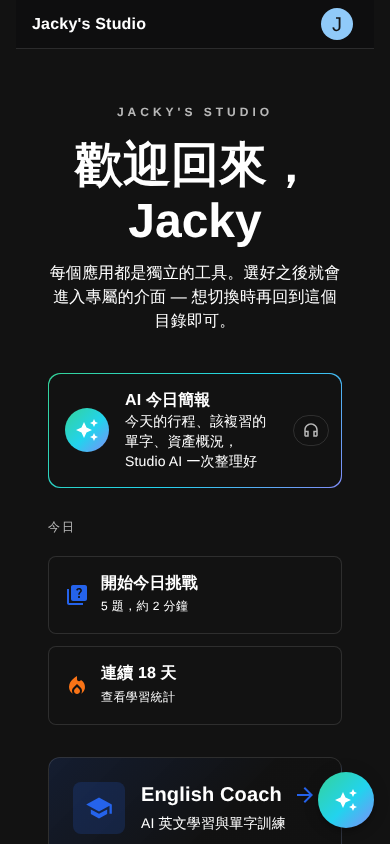
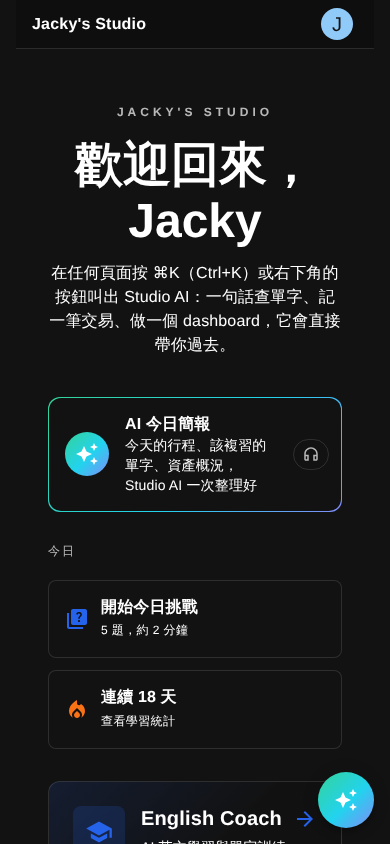
docs(ai-native): 第 56 輪紀錄、NEXT、SHOWCASE 日誌、首頁截圖更新；loop: release lock [skip ci]
Claude-Session: https://claude.ai/code/session_01DgXGTwFbkuAXhsFxCDfvGD

diff --git a/docs/ai-native/NEXT.md b/docs/ai-native/NEXT.md
@@ -12,6 +12,7 @@
 
 ## 1. CI 狀態
 
+- 第 56 輪：只動前端（D-209）；CI 40961309416（af66cbd3）第一次就綠。截圖巡檢時 `selection.cjs` 的 `studio-handoff-*-phone` 在送出後 700 ms 拍，抽屜可能正在收起：差異大不代表退化。
 - 第 55 輪：後端＋前端（D-207、D-208）；cscheck 0 個新診斷；CI 40944862751（d8bc6314）第一次就綠，40947180302（4408c6a8，前端審查修正＋截圖）第一次就綠。新的錯誤碼要同時加在 `Common/ErrorCodes.cs` 與 `apis/types.ts` 的 `ErrorCodes`（以名稱序列化）。
 - 第 54 輪：後端（D-203）＋前端（D-204、D-206）；cscheck 0 個新診斷；CI 40926326281（3b5c0546）、40927424179（6c0e659f）都第一次就綠。**官方 MCP Apps 範例 server 可以在 sandbox 用 npm 裝來跑**（`.loop/shots/mcp-host-official.cjs` 開頭有步驟；curl 要 `--noproxy localhost`）。在下載目錄裡跑 `python3 -c` 會被權限分類器擋（Code from External），讀那些檔案用 Grep／Read。
 - 第 53 輪：後端＋前端（D-200～D-202）；CI 40908396536（5ac216d）、40911186070（cb29805）第一次就綠，審查修正 4ac017d 見 PROGRESS。cscheck 對 `x == null || x.Prop` 這種寫法（`x` 是 record）報 CS8602、對 `is not { } x || …` 報 CS0165：**先 `if (x is null) return …;` 再用**就乾淨。cscheck 現在有 MCP SDK 原始碼（`ReadResourceAsync(ReadResourceRequestParams, ct)` 報 CS1503 是跟 `ListToolsAsync` 一樣的雜訊，CI 過）。截圖腳本新增 `.loop/shots/mcp-host.cjs`（假的天氣 app：init → tool-result → size-changed、`open-link` 要讀者按、`tools/call` 經 `app-call`、偷連外部被 CSP 擋下，印出結果）。
@@ -54,7 +55,8 @@
 
 ## 2. 下一步（依序）
 
-0000. **第 55 輪（D-207、D-208）**：只給 app 的寫入工具讀者在卡片上允許後才跑。剩下（低）：app 在畫面外仍輪詢（讀者可停止允許；要做就用 IntersectionObserver 在畫面外時回「暫停」錯誤）；「停止允許」後這張卡片不能再允許；問題顯示 app 給的名稱不是伺服器的標題。**這個環境不能執行 npm 下載的套件**（權限分類器擋 Code from External，第 54 輪可以、第 55 輪不行）：官方範例只能讀原始碼，或用 `.loop/shots/` 自製的假 app。**下一輪建議**：2 的截圖巡檢（`chat.cjs` 重拍比對）或 1 的選做；11/3 凍結前最後一輪重拍全部截圖。
+0000. **第 56 輪（D-209）**：MCP App 卡片畫面外暫停已允許的工具、拒絕後可「改為允許」；截圖巡檢（chat.cjs 等 7 支）無退化。MCP Apps 剩下（低，可不做）：問題顯示 app 給的名稱不是伺服器的標題（D-208）；換亮暗是整個重畫（沒送 `host-context-changed`）。**這個環境不能執行 npm 下載的套件**（第 55 輪起權限分類器擋）：官方範例只能讀原始碼，或用 `.loop/shots/` 自製的假 app。**下一輪建議**：1 的選做挑一個，或 3 的 SHOWCASE 定稿先做（demo 腳本走一遍、統計：第 56 輪時 `rev-list --count --no-merges origin/master..HEAD` 約 470）；11/3 凍結前最後一輪重拍全部截圖（截圖比對的 python 片段見 PROGRESS 第 56 輪的作法：PIL `ImageChops.difference`、門檻 24、>1% 才看）。
+00000. **第 55 輪（D-207、D-208）**：只給 app 的寫入工具讀者在卡片上允許後才跑。剩下的兩項第 56 輪已做（D-209）。**這個環境不能執行 npm 下載的套件**（權限分類器擋 Code from External，第 54 輪可以、第 55 輪不行）：官方範例只能讀原始碼，或用 `.loop/shots/` 自製的假 app。
 000. **MCP Apps 已收尾（第 54 輪：D-203 宣告能力、D-204 `ui/message`、D-205 demo 來源、D-206 審查）**。剩下（低，可不做）：(a) `host-context-changed`／`resource-teardown` 沒送（換亮暗是整個重畫）；(b) app 在讀者決定前就收到 `ui/message` 成功；(c) 官方其他範例（`server-map` 已裝過、要外部 tile CDN；`server-budget-allocator`、`server-system-monitor`）可用同一支 `mcp-host-official.cjs` 換 uri／tool 試，確認 CSP 宣告的 `resourceDomains` 實際能載入；(d) mcpplaygroundonline 的 server 合併後實測（FOR_JACKY 19）。**下一輪先做 1 的選做或 2 的截圖巡檢**；凍結前（11/3）最後一輪重拍全部截圖。
 00. **第 52 輪留下的（低，可不做）**：D-197 只在讀者「跟著最後」或剛從搜尋打開時跟著長高；讀者捲到中間時上方內容長高仍會推動畫面（瀏覽器的 scroll anchoring 通常會處理，未證實有問題）。D-195 未修：Anyone dashboard 每個 dashboard 的匿名上限或 widget 結果快取 30–60 秒；`GET listening` 作答前就送 `IsCorrect`／`Explanation`（master 既有設計）。之後回到下面的 0／0.5／1，或 2
 0. **巡檢的未修項目**：第 47 輪做了第七次巡檢（登入登出、帳號連線、匿名端點；D-175），修了 TTS 的上限（D-173）、帳號連線 refresh 的競爭與 callback 的 provider（D-174），並把全站 `console.error` 收完（麥克風、對話開始、語音播放、登出，D-172；剩下的都有自己的錯誤畫面）；字典的發音被擋時改用瀏覽器的聲音（D-176）。**還剩（交給 Jacky，FOR_JACKY 18）**：匿名查字典可無限產生新字（產品決定，D-175(a)）；`StateService` 與 token MAC 共用 key、帳號連線沒 PKCE（低）。**還沒巡過的面**：第 51 輪巡過 dashboard 分享與 /admin/listening（D-195）；幾乎都巡過了。第 46 輪留下的：Job Finder 的頻率限制以位址計（同一個 NAT 後的人共用，低）。以下是之前的紀錄：第 44 輪做了第五次巡檢（D-163、D-164），新的未修（低，凍結前不做）：DNS rebinding 與 TDS routing 仍能讓自訂 SQL 資料源連到內網（只剩時間差旁路，因為連線失敗原因已不回報；要完全擋得靠 App Service 的出站網路限制，FOR_JACKY 17）；dashboard 分享仍看得出哪些 email 有帳號（要改成邀請制＝新表）；`MaskMsSql` 遇到含 `;` 的引號密碼會露出後半（只給擁有者看，可改用 `SqlConnectionStringBuilder` 遮罩）。**還沒巡過的面**：Job Finder（104／Cake 的外部內容進頁面）、Portfolio 的匯入／AI 摘要、English 的 AI 評分端點（prompt injection 只影響自己）。第 43 輪：第 43 輪修完了 D-158 的兩個中風險（錄音 4 MB＋2 分鐘、匿名上傳每人 128 MB；D-159）與 D-157 的三個低風險（連結卡片寫主機 D-160、Portfolio tooltip 跳脫 D-161、OAuth 提示只寫自己的名稱 D-162）。**還剩、凍結前不做的低風險**：PDF 頁數由 `/Count` 決定（Anthropic 每次最多 100 頁，未驗證）；附件文字不 taint 對話（D-083 的決定）；`ask_data` 依結果動態 taint（要動 `ClientToolRunner`）；匿名上傳的 IPv6 換位址可多拿份額（有總額與共用頻率限制兜底）；錄音 body 太大時回的是 ASP.NET 的 ProblemDetails 而不是 app 的錯誤格式（前端不讀 body，只顯示「語音沒有轉成文字」）。D-131（之後新增的讀取工具自動給已發出的 token）仍是合併後的事。新的 ECharts 函式 formatter 一定要 `escapeHtml`。若還有時間想再巡：可以看「Studio AI 的工具在本站 MCP server 上的權限」以外還沒看過的面（例如 dashboard 的公開分享、`/admin/listening`），但 11/3 之後只修 bug。
@@ -83,7 +85,7 @@
    - 「在 Studio AI 試試看」（D-126／D-128）：OAuth 授權回來的 snackbar 沒有按鈕（刻意，詳情裡有）。若要在 Studio 的 `find_mcp_server` 卡片上也直接試，要等使用者加完——目前不做。Studio「/」已有「找 MCP server」（key `find_mcp_server`，不是本站 MCP prompt）。
    - MCP 官方目錄（D-122／D-123）：只列 Streamable HTTP、固定網址的 remote server；SSE-only 與網址有 `{變數}` 的不列。安裝一定要使用者自己在 /connectors 按（D-124 仍守住）。Registry 的圖示刻意不顯示。
    - `approvalTimeLeft` 時間到後按鈕仍可按（D-109 決定不停用）；若實測覺得混淆再改。
-2. **全站截圖巡檢**：第 43 輪 `chat.cjs` 又拍一次、與 repo 比對無 >1% 差異（`finance-collapsed-*` 兩張 repo 裡沒有，沒加）。第 40 輪 `chat.cjs` 又拍一次、無退化（只有持倉卡片多一顆圖示）。第 37 輪 `chat.cjs`、第 38 輪 `selection.cjs`、`memory.cjs`、`connectors.cjs`、`mcp-app.cjs`、`rename.cjs`、第 39 輪 `chat.cjs` 都已重拍、無退化。第 51 輪 `chat.cjs` 又拍一次、與 repo 比對 41 張無 >1% 差異（標題列含匯出按鈕，沒擠）。凍結前（11/3）最後再拍一次。
+2. **全站截圖巡檢**：第 43 輪 `chat.cjs` 又拍一次、與 repo 比對無 >1% 差異（`finance-collapsed-*` 兩張 repo 裡沒有，沒加）。第 40 輪 `chat.cjs` 又拍一次、無退化（只有持倉卡片多一顆圖示）。第 37 輪 `chat.cjs`、第 38 輪 `selection.cjs`、`memory.cjs`、`connectors.cjs`、`mcp-app.cjs`、`rename.cjs`、第 39 輪 `chat.cjs` 都已重拍、無退化。第 51 輪 `chat.cjs` 又拍一次、與 repo 比對 41 張無 >1% 差異（標題列含匯出按鈕，沒擠）。第 56 輪 `chat.cjs`、`connectors`、`selection`、`search`、`memory`、`slash`、`mcp-app` 重拍，無退化（見 PROGRESS）。凍結前（11/3）最後再拍一次。
 3. **SHOWCASE 定稿**（11/4–11/5）：最終統計（輪數、commit 數：`git rev-list --count --no-merges origin/master..HEAD`）、demo 腳本走一遍、合併檢查清單再對一次 migration 清單（`git diff --stat origin/master -- JackyAIApp.Server/Data/Migrations`；第 22～27 輪沒有新 migration）。開發日誌表每輪補一列（已補到第 46 輪）。第 24 輪時 `rev-list --count --no-merges origin/master..HEAD` 是 236。
 
 ## 3. 已經做好的零件

diff --git a/docs/ai-native/SHOWCASE.md b/docs/ai-native/SHOWCASE.md
@@ -319,7 +319,8 @@ flowchart LR
 | 10/28 | 51 | **審查收尾與第十一次巡檢：dashboard 分享、/admin/listening**：同一個搜尋結果再按會重新亮滿、換對話一定回到最後（D-194）；匿名看 Anyone dashboard 不再拿到 widget 的資料源、表名與篩選值，widget 有大小與數量上限、題庫分頁夾值（D-195）；沒登入的訪客以 IPv6 /64 計算頻率限制（D-196） |
 | 10/28 | 52 | 之後才畫好的內容（延遲載入的卡片、回答最後的「接著問」）不再把對話推走：跟著最後的留在最後、搜尋打開的那則留在原位，讀者自己按出來的不被捲走（D-197、D-199）；**Studio 找 MCP server 時知道你已經加過哪些**，不再叫你重加（D-198） |
 | 10/30 | 53 | **本站也當 MCP Apps 的 host**：使用者接上的 MCP server 若提供 `ui://` app，回答裡直接畫出它的互動介面（sandbox iframe、CSP 寫在最前面、JSON-RPC 橋、app 只能呼叫唯讀工具、開連結要讀者按；D-201），審查後不在伺服器快取 app、每個 connector 最多 5 個、app 換頁就停止顯示、說明列不能被格式字元偽造（D-202）；首頁說明句改講 Studio AI 與 ⌘K（D-200）。另：上一輪留下格式錯的鎖，約 34 小時沒有一輪做事，改用 `.loop/lock.py` |
-| 10/30 | 55 | **MCP App 的寫入要讀者允許**：官方 system-monitor 範例每 2 秒呼叫的只給 app、未標唯讀的工具原本一定被拒 → 卡片上方問「允許／不用」、允許後帶 `readerAllowed`、可停止允許（D-207）；app 的呼叫有自己的頻率限制；審查修正：問題放 app 上方、600 ms 防誤按、一次一個工具（D-208） |
 | 10/30 | 54 | **MCP Apps 收尾**：`initialize` 宣告本站會畫 app（照規格先看 client 能力的 server 也會給，D-203）、app 的 `ui/message` 先問讀者再放進輸入框（D-204）；用 **MCP 官方範例 app** 的真 HTML 跑過整個 host 流程（D-205），審查修正（D-206） |
+| 10/30 | 55 | **MCP App 的寫入要讀者允許**：官方 system-monitor 範例每 2 秒呼叫的只給 app、未標唯讀的工具原本一定被拒 → 卡片上方問「允許／不用」、允許後帶 `readerAllowed`、可停止允許（D-207）；app 的呼叫有自己的頻率限制；審查修正：問題放 app 上方、600 ms 防誤按、一次一個工具（D-208） |
+| 10/30 | 56 | MCP App 卡片：捲出畫面或切到別的分頁時，已允許的工具暫停（輪詢的 app 看不到就不花資源）；拒絕過的工具可以「改為允許」（放在 app 上方、防連按誤觸；D-209）；全站截圖巡檢無退化 |
 
 截至第 6 輪：feature/ai-native 比 master 多 60+ 個 commit（不含 merge）。

diff --git a/docs/ai-native/PROGRESS.md b/docs/ai-native/PROGRESS.md
@@ -1,5 +1,12 @@
 # PROGRESS（新的在最上面）
 
+## 2026-10-30 05:42 – 第 56 輪（MCP App 卡片：畫面外暫停、拒絕後改為允許；截圖巡檢）
+
+- 開工：鎖不存在（`lock.py check` FREE）；master 沒有新 commit；上一輪最後的 CI（40947180302）綠；沒有 Jacky 的新 commit。`add_repo` 仍不存在，既有 clone 切到 `feature/ai-native`。
+- **D-209**（NEXT 0000 剩下的兩項）：`useOnScreen`（IntersectionObserver＋`visibilitychange`，ref 不重畫）——卡片捲出畫面或分頁藏起來時，已允許的只給 app 工具的呼叫在前端回 `PAUSED_MESSAGE`、不送伺服器，看得到後照常；被「不用」／「停止允許」拒絕的工具列在 iframe 上方，附「改為允許」（`allowAgain`；按下保護 `PRESS_GUARD_MS`，拒絕清單一變就重新起算，連按兩下「不用」不會落到它）。
+- **截圖巡檢**（NEXT 2）：`chat.cjs` 43 張、`connectors`／`selection`／`search`／`memory`／`slash`／`mcp-app` 重拍，與 repo 比對：>1% 的只有 (1) `home-briefing-card-phone`（首頁副標題第 4x 輪改成 ⌘K 的說明，已更新 repo 的圖）、(2) `studio-slash-phone`（現成指令從 6 個變 9 個，預期）、(3) `studio-handoff-*`、`studio-holdings-handoff-*`（送出後 700 ms 拍的，手機上抽屜正在收起，是拍攝時機；之後的 `*-data-*` 無差異）、`select-data-*` 1.5%（字型抗鋸齒）。**沒有退化**。
+- 驗證：前端 lint、全套測試（182 檔 1897 個）、build 全過；`mcp-app-allow.cjs` 多拍「停止允許 → 改為允許」（`studio-mcp-app-allow-stopped-*` 進 repo），印出改為允許後 1 行「已允許」。CI 40961309416（af66cbd3）第一次就綠。只動前端，沒跑 cscheck。
+
 ## 2026-10-30 03:42 – 第 55 輪（MCP App 的寫入要讀者在卡片上允許：讓官方 system-monitor 範例能用）
 
 - 開工：鎖不存在；master 沒有新 commit；上一輪最後的 CI 綠；沒有 Jacky 的新 commit。`add_repo` 工具仍不存在，用既有的 clone 切到 `feature/ai-native`（`--unshallow`）。鎖這輪是手寫的（格式正確，`lock.py check` 讀得懂）；下一輪照 NEXT 用 `lock.py write`。
